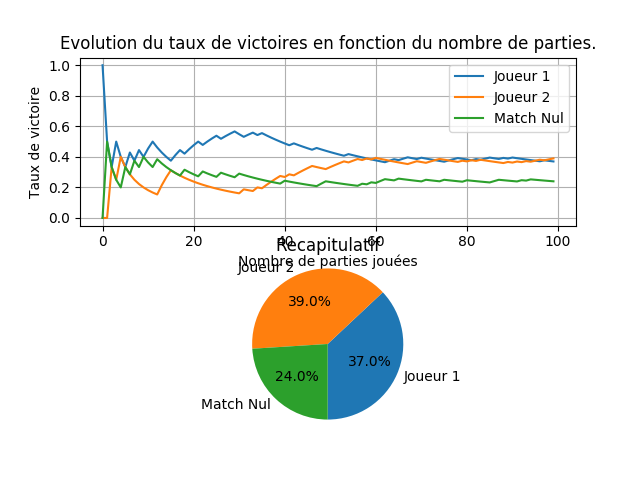
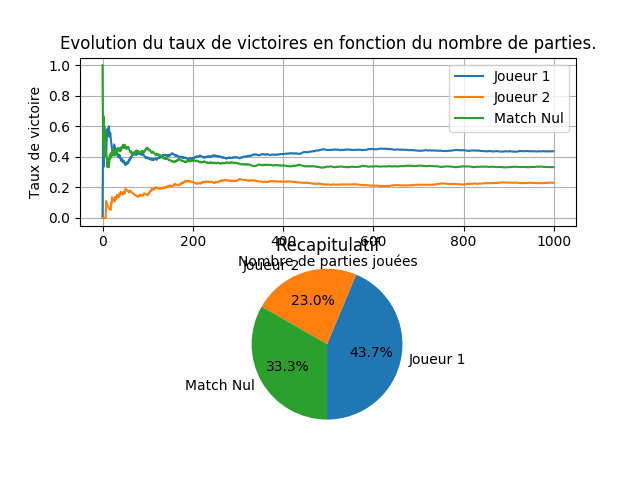
Optimisation des stratégies, correction de bugs.

diff --git a/strategies.py b/strategies.py
@@ -2,18 +2,33 @@ import random
 import pickle
 import numpy as np
 
+CONF_FICHIER = False
+CONF_S_OPT = []
+PASC_FICHIER = False
+PASC_S_OPT = []
+
 
 def strategiePrudente(partie=None, partiesPrecedentes=None):
     n = partie.stockInitial
     m = partie.nombreCases
-    with open('data/{}-{}-{}.conf'.format(50, 50, m), 'rb') as conf_file:
-        a = pickle.load(conf_file)
+    mp = m // 2
+    global CONF_FICHIER
+    global CONF_S_OPT
+    if not CONF_FICHIER:
+        fichier = open('data/{}-{}-{}.conf'.format(50, 50, m), 'rb')
+        CONF_FICHIER = True
+        CONF_S_OPT = pickle.load(fichier)
+    elif sorted(CONF_S_OPT.keys())[-1][2] != mp:
+        fichier = open('data/{}-{}-{}.conf'.format(50, 50, m), 'rb')
+        CONF_S_OPT = pickle.load(fichier)
     p1 = partie.stockGauche
     p2 = partie.stockDroite
     t = partie.positionTroll
-    s_opt = a[p1 + 2, p2 + 2, t - (m//2)]
+    s_opt = list(CONF_S_OPT[p1 + 2, p2 + 2, t - mp])
     s_opt.pop()
     s_opt.pop()
+    if sum(s_opt) < 1:
+        s_opt[-1] += (1 - sum(s_opt))
     a = np.random.choice(np.arange(1, p1+1, 1), p=s_opt)
     return int(a)
 
@@ -21,12 +36,20 @@ def strategiePrudente(partie=None, partiesPrecedentes=None):
 def strategiePrudentePascal(partie=None, partiesPrecedentes=None):
     n = partie.stockInitial
     m = partie.nombreCases
-    with open('data/{}-{}-{}.pascal'.format(50, 50, m), 'rb') as conf_file:
-        a = pickle.load(conf_file)
+    mp = m // 2
+    global PASC_FICHIER
+    global PASC_S_OPT
+    if not PASC_FICHIER:
+        fichier = open('data/{}-{}-{}.pascal'.format(50, 50, m), 'rb')
+        PASC_FICHIER = True
+        PASC_S_OPT = pickle.load(fichier)
+    elif sorted(PASC_S_OPT.keys())[-1][2] != mp:
+        fichier = open('data/{}-{}-{}.pascal'.format(50, 50, m), 'rb')
+        PASC_S_OPT = pickle.load(fichier)
     p1 = partie.stockGauche
     p2 = partie.stockDroite
     t = partie.positionTroll
-    s_opt = a[p1, p2, t - (m//2)]
+    s_opt = list(PASC_S_OPT[p1, p2, t - mp])
     a = np.random.choice(np.arange(1, p1+1, 1), p=s_opt)
     return int(a)
 

diff --git a/interface.py b/interface.py
@@ -84,7 +84,11 @@ class Interface:
 
     def lancer_simulation(self):
         print("Debug : On a appuyé sur le bouton lancer")
-        chart.affiche_graphe(self.switch_strategie(self.strategie_j1.get()), self.switch_strategie(self.strategie_j1.get()), int(self.nb_partie.get()), int(self.nb_pierre.get()), int(self.nb_case.get()))
+        chart.affiche_graphe(self.switch_strategie(self.strategie_j1.get()),
+                             self.switch_strategie(self.strategie_j2.get()),
+                             int(self.nb_partie.get()),
+                             int(self.nb_pierre.get()),
+                             int(self.nb_case.get()))
         newImage = PhotoImage(file="graph.png")
         self.label.configure(image=newImage)
         self.label.image = newImage

diff --git a/Configuration.py b/Configuration.py
@@ -104,7 +104,7 @@ def export_fichier(n, m, dict_a_sauv):
 def main():
     N = 50
     m = [3, 5, 7, 9, 11, 13, 15]
-    # m = [5, 7, 9, 11, 13, 15]
+    # m = [5, 7, 9, 11,  13, 15]
     # m = [3]
     for M in m:
         # M = 7
